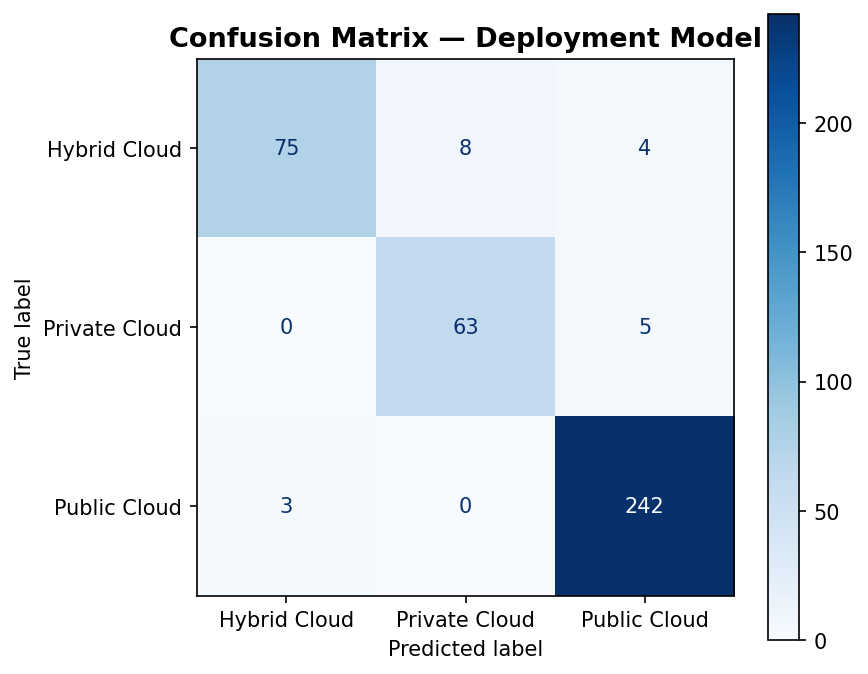
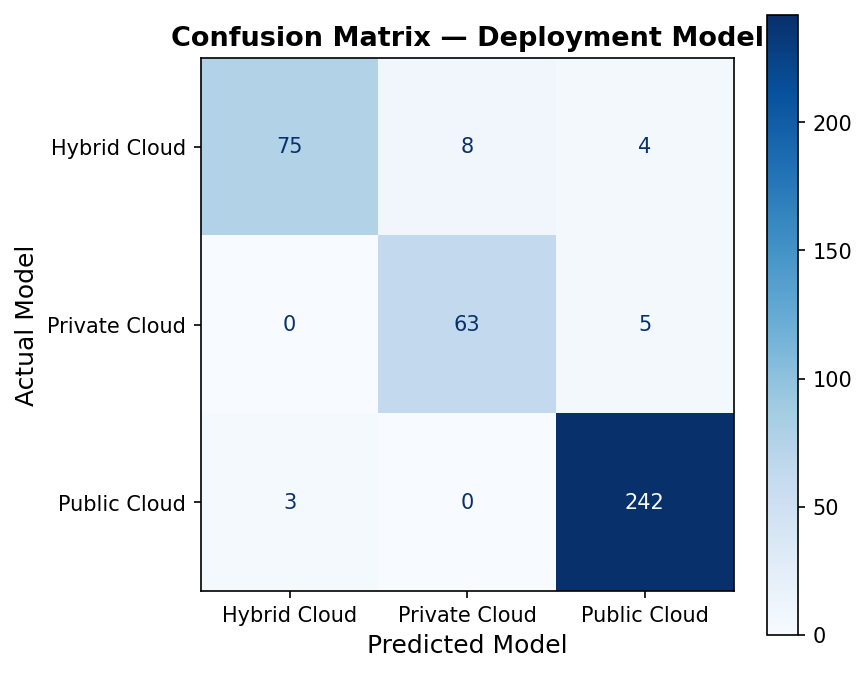
Minor fixes

diff --git a/ai-service/train.py b/ai-service/train.py
@@ -19,8 +19,8 @@ import os
 
 def plot_learning_curve(model, X, y, target_name, use_scaled=False, scaler=None):
     """
-    Plots training vs validation accuracy learning curve
-    and saves to learning_curve_<target>.png
+    Plots training vs validation accuracy AND loss (1 - accuracy) learning curves
+    in the same figure (two subplots), saves to learning_curve_<target>.png
     """
     if use_scaled and scaler is not None:
         X_plot = scaler.transform(X)
@@ -38,24 +38,34 @@ def plot_learning_curve(model, X, y, target_name, use_scaled=False, scaler=None)
         random_state=42
     )
 
-    train_mean = train_scores.mean(axis=1)
-    train_std  = train_scores.std(axis=1)
-    val_mean   = val_scores.mean(axis=1)
-    val_std    = val_scores.std(axis=1)
+    train_acc  = train_scores.mean(axis=1)
+    val_acc    = val_scores.mean(axis=1)
+    train_loss = 1 - train_acc
+    val_loss   = 1 - val_acc
 
-    fig, ax = plt.subplots(figsize=(8, 5))
-    ax.plot(train_sizes, train_mean, 'o-', color='#2196F3', linewidth=2, label='Training Accuracy')
-    ax.plot(train_sizes, val_mean,   's-', color='#FF9800', linewidth=2, label='Validation Accuracy')
-    ax.fill_between(train_sizes, train_mean - train_std, train_mean + train_std,
-                    alpha=0.15, color='#2196F3')
-    ax.fill_between(train_sizes, val_mean - val_std, val_mean + val_std,
-                    alpha=0.15, color='#FF9800')
-    ax.set_xlabel('Training Set Size', fontsize=12)
-    ax.set_ylabel('Accuracy', fontsize=12)
-    ax.set_title(f'Learning Curve — {target_name}', fontsize=13, fontweight='bold')
-    ax.legend(fontsize=11)
-    ax.set_ylim([0.6, 1.05])
-    ax.grid(True, linestyle='--', alpha=0.5)
+    fig, (ax1, ax2) = plt.subplots(1, 2, figsize=(14, 5))
+
+    # ── Accuracy subplot ──────────────────────────────────────────────────────
+    ax1.plot(train_sizes, train_acc, 'o-', color='#2196F3', linewidth=2, label='Training Accuracy')
+    ax1.plot(train_sizes, val_acc,   's-', color='#FF9800', linewidth=2, label='Validation Accuracy')
+    ax1.set_xlabel('Training Set Size', fontsize=12)
+    ax1.set_ylabel('Accuracy', fontsize=12)
+    ax1.set_title(f'Accuracy — {target_name}', fontsize=13, fontweight='bold')
+    ax1.legend(fontsize=11)
+    ax1.set_ylim([0.6, 1.05])
+    ax1.grid(True, linestyle='--', alpha=0.5)
+
+    # ── Loss subplot ──────────────────────────────────────────────────────────
+    ax2.plot(train_sizes, train_loss, 'o-', color='#2196F3', linewidth=2, label='Training Loss')
+    ax2.plot(train_sizes, val_loss,   's-', color='#FF9800', linewidth=2, label='Validation Loss')
+    ax2.set_xlabel('Training Set Size', fontsize=12)
+    ax2.set_ylabel('Loss (1 − Accuracy)', fontsize=12)
+    ax2.set_title(f'Loss — {target_name}', fontsize=13, fontweight='bold')
+    ax2.legend(fontsize=11)
+    ax2.set_ylim([-0.02, 0.45])
+    ax2.grid(True, linestyle='--', alpha=0.5)
+
+    plt.suptitle(f'Learning Curve — {target_name}', fontsize=14, fontweight='bold', y=1.02)
     plt.tight_layout()
 
     fname = f'learning_curve_{target_name.replace(" ", "_").lower()}.png'
@@ -67,11 +77,14 @@ def plot_learning_curve(model, X, y, target_name, use_scaled=False, scaler=None)
 def plot_confusion_matrix(y_test, y_pred, classes, target_name):
     """
     Plots and saves confusion matrix as confusion_matrix_<target>.png
+    X-axis = Predicted Label, Y-axis = Actual Label
     """
     cm = confusion_matrix(y_test, y_pred)
     fig, ax = plt.subplots(figsize=(6, 5))
     disp = ConfusionMatrixDisplay(confusion_matrix=cm, display_labels=classes)
     disp.plot(ax=ax, colorbar=True, cmap='Blues', values_format='d')
+    ax.set_xlabel('Predicted Model', fontsize=12)
+    ax.set_ylabel('Actual Model', fontsize=12)
     ax.set_title(f'Confusion Matrix — {target_name}', fontsize=13, fontweight='bold')
     plt.tight_layout()
 
@@ -231,7 +244,7 @@ def train_models():
         # ── Generate plots ─────────────────────────────────────────────────
         print(f"\n  Generating plots for {label}...")
 
-        # 1. Learning curve
+        # 1. Learning curve (accuracy + loss in same figure)
         plot_learning_curve(
             best_model, X_train,
             le_target.transform(df.loc[X_train.index, target]),
